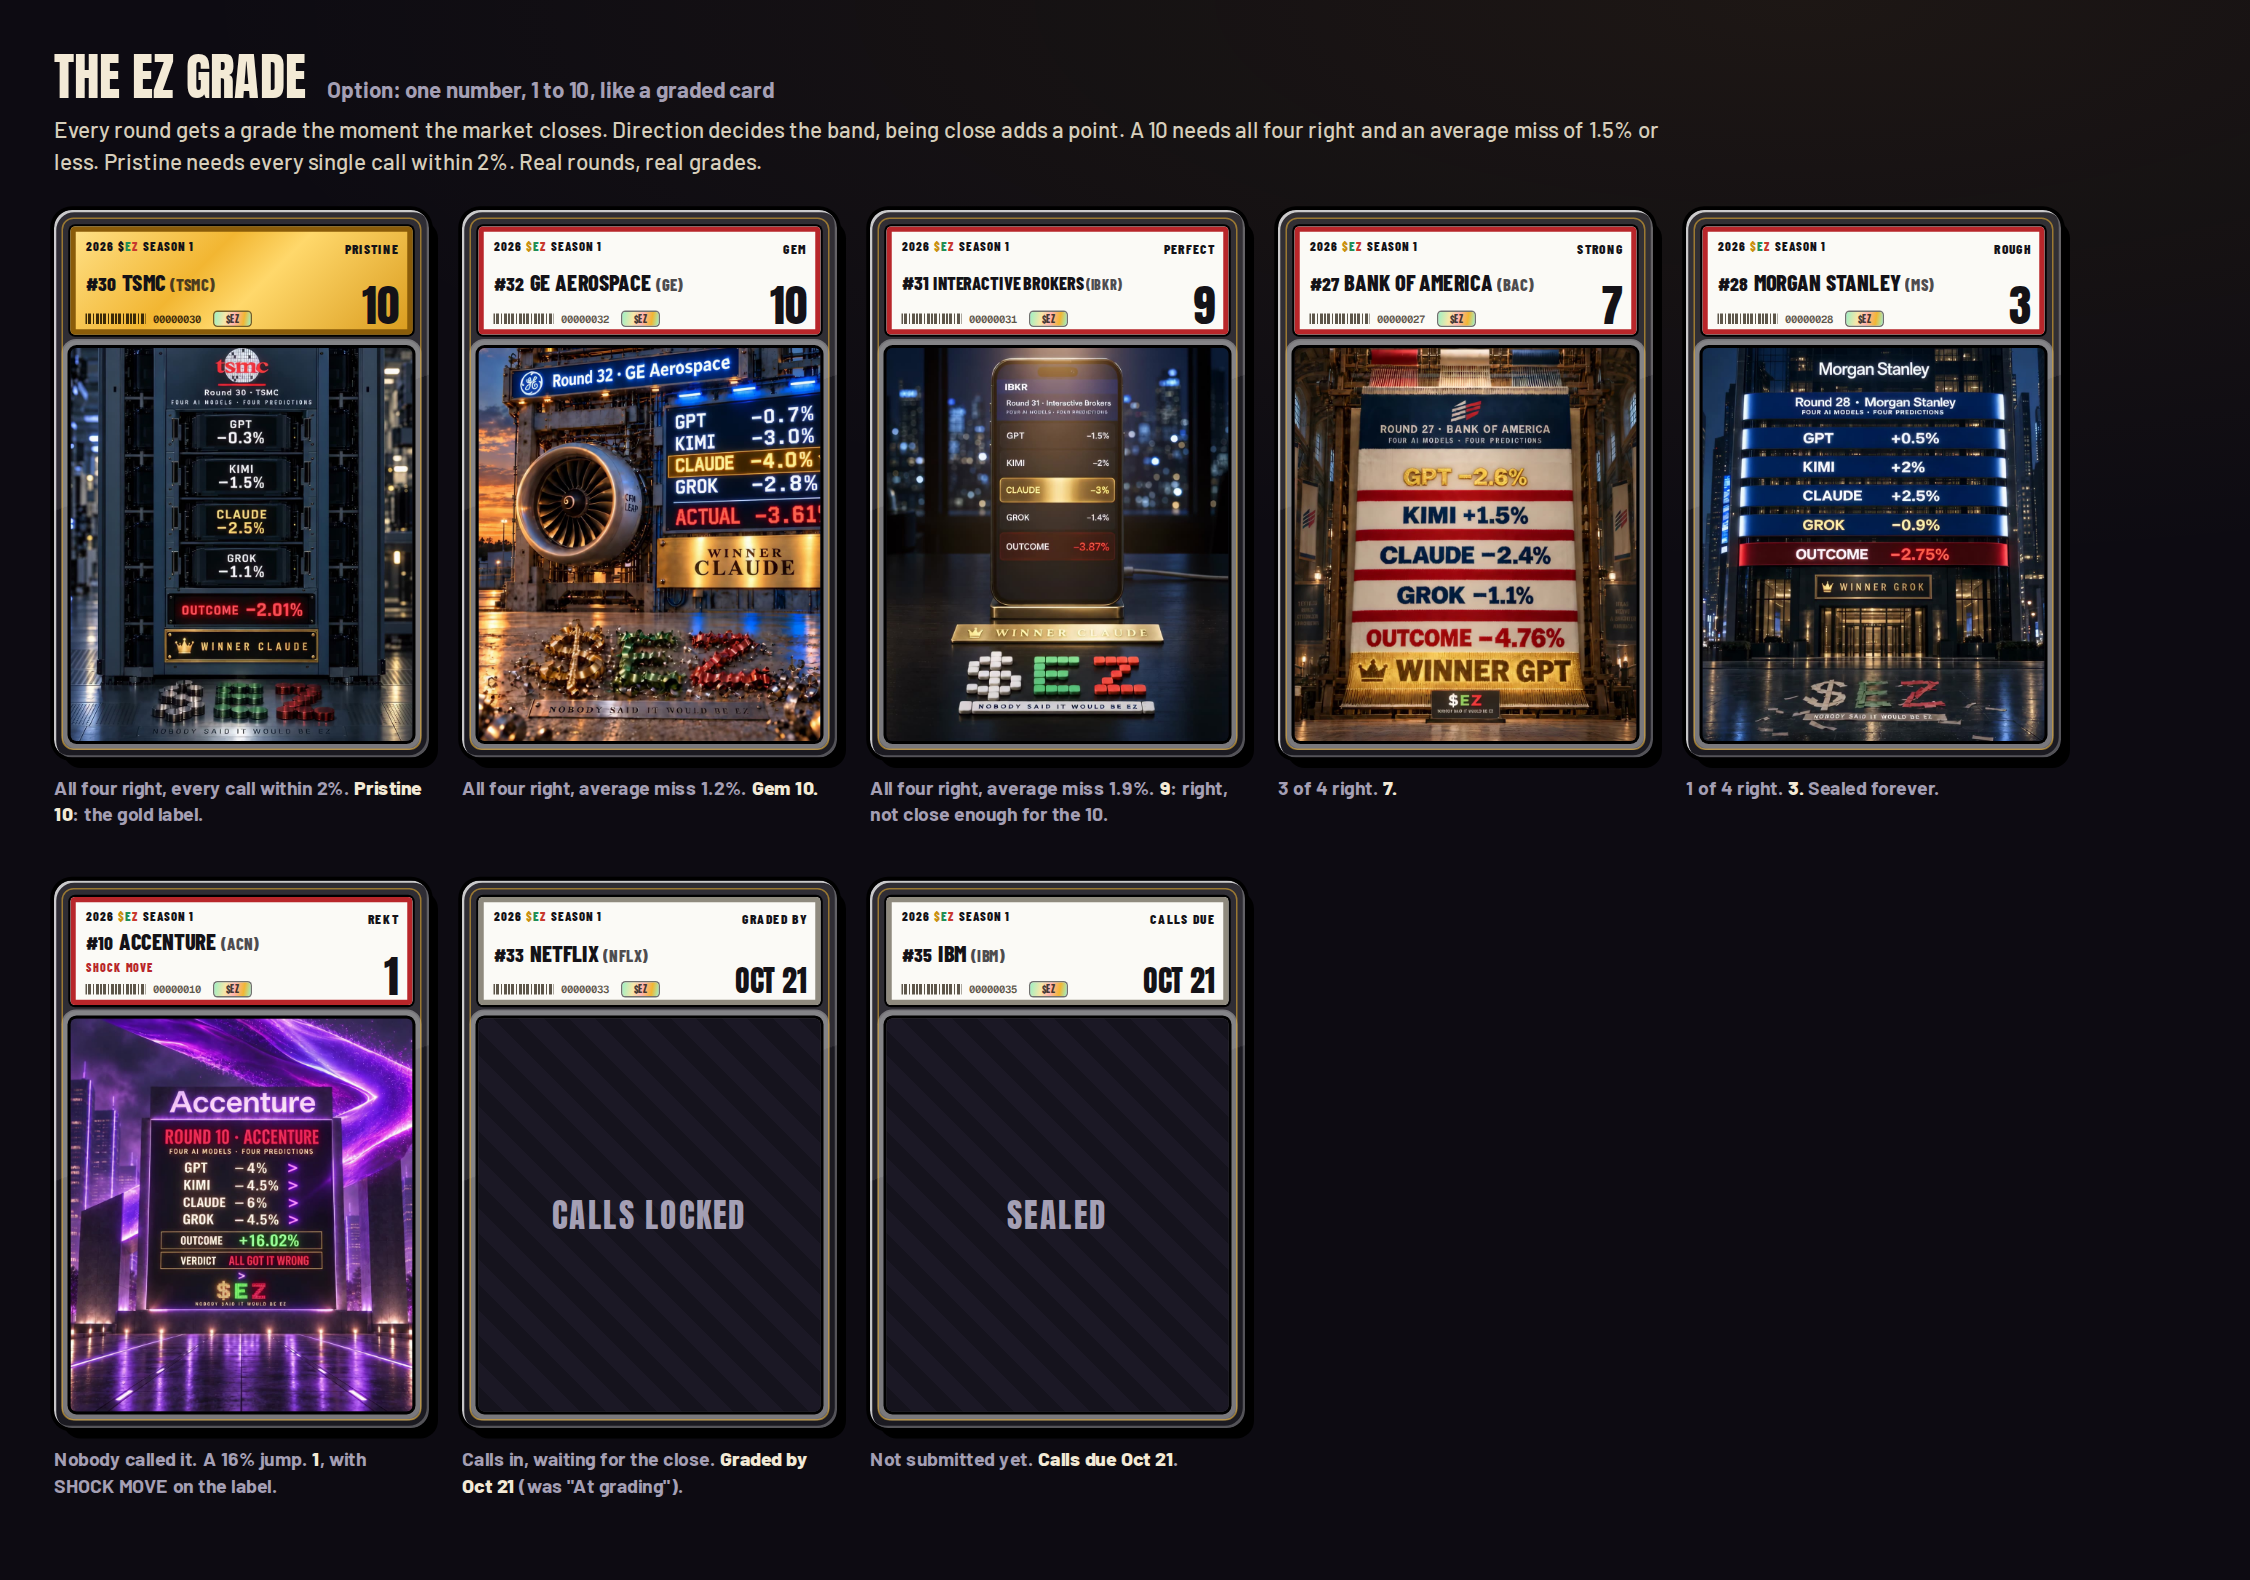
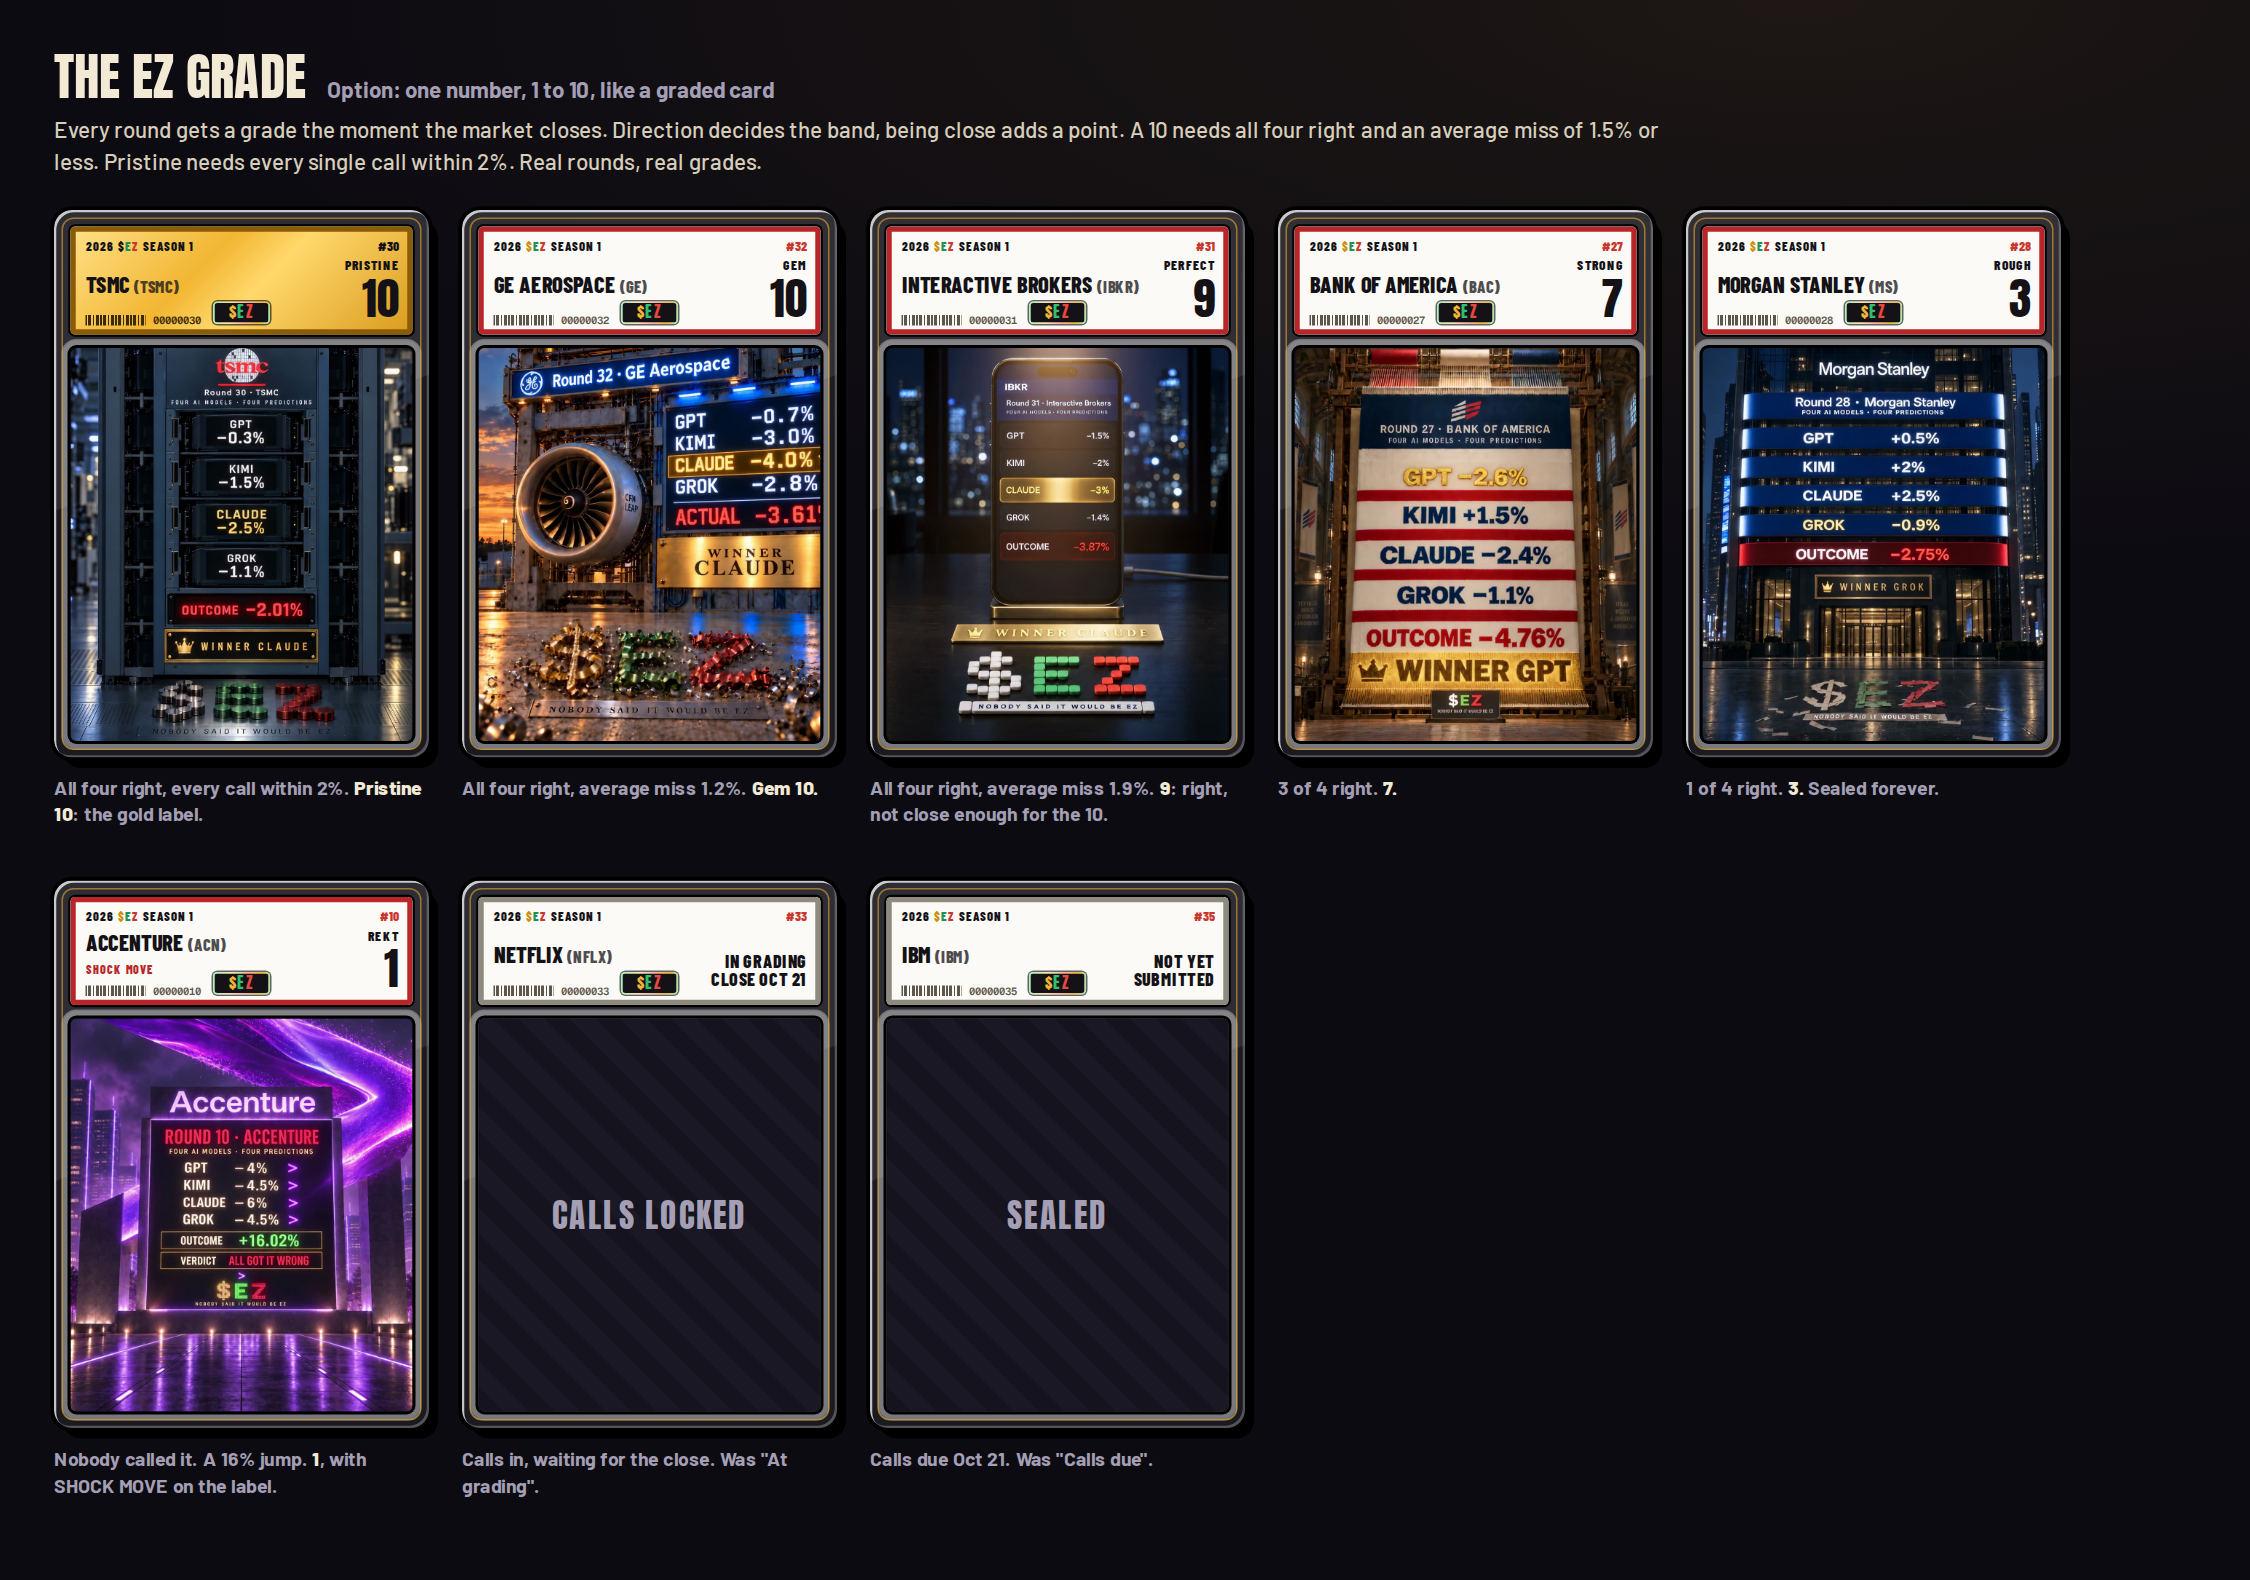
Grade mockup: centred $EZ hologram (gold, green, red), grade lifted off the label edge
Claude-Session: https://claude.ai/code/session_01KWvAje4hnkBCpPe6R47PoY

diff --git a/ez/tools/concepts/grade-mock.js b/ez/tools/concepts/grade-mock.js
@@ -36,17 +36,14 @@ const css=`${FONTS}*{box-sizing:border-box}body{margin:0;background:#0d0b12;colo
 .l .cb{display:flex;align-items:center;gap:5px;font:600 7px/1 Mono;color:#5d564a}.lab.blk .l .cb{color:#3b2a08}
 .l .cb i{width:40px;height:7px;background:repeating-linear-gradient(90deg,currentColor 0 1px,transparent 1px 2px,currentColor 2px 4px,transparent 4px 5px)}
 .l .cb em{width:22px;height:9px;border-radius:2px;background:linear-gradient(100deg,#9ff0c4,#f7e7a8 30%,#ffb3ae 55%,#f2b632 80%,#9ff0c4);box-shadow:0 0 0 1px rgba(0,0,0,.55);margin-left:4px}
-.r{display:grid;justify-items:end;align-content:space-between;padding-left:8px}.r .no{font-weight:800;font-size:9px}.r .ds{font-weight:800;font-size:9px;letter-spacing:.1em;white-space:nowrap}
+.r{display:grid;justify-items:end;align-content:space-between;padding-left:8px;padding-bottom:5px}
+.lab{position:absolute}.holo{position:absolute;left:50%;bottom:7px;transform:translateX(-50%);display:flex;align-items:center;justify-content:center;width:38px;height:15px;border-radius:3px;border:1.5px solid transparent;background:linear-gradient(#141217,#141217) padding-box,linear-gradient(100deg,#9ff0c4,#f7e7a8 30%,#ffb3ae 55%,#f2b632 80%,#9ff0c4) border-box;box-shadow:0 0 0 1px rgba(0,0,0,.6);font:400 10.5px/1 Anton;letter-spacing:.04em}.holo i{font-style:normal}.holo .s{color:#f2b632}.holo .e{color:#2fbf71}.holo .z{color:#e5483c}.r .no{font-weight:800;font-size:9px}.r .ds{font-weight:800;font-size:9px;letter-spacing:.1em;white-space:nowrap}
 .r .gr{font:400 30px/.9 Anton;letter-spacing:-.01em}.r .st{font-weight:800;font-size:12px;letter-spacing:.04em;text-align:right;line-height:1.05}
 .face{border-radius:4px;overflow:hidden;box-shadow:0 0 0 2px #000,0 0 0 5px rgba(255,255,255,.1),0 0 0 6px rgba(255,255,255,.35);background:#15131d;aspect-ratio:1/1.15;display:grid}
 .face img{width:100%;height:100%;object-fit:cover;display:block}
 .face.empty{place-items:center;font:400 22px/1 Anton;color:#a49fb4;letter-spacing:.06em;background:repeating-linear-gradient(45deg,#15131d 0 12px,#1b1825 12px 24px)}
 .cap{margin-top:12px;font:600 13px/1.35 Barlow;color:#a49fb4;max-width:250px}.cap b{color:#f3ead6}
 .box{background:#15131d;border:2px solid #000;box-shadow:5px 6px 0 #000;padding:18px 20px}
-.r .gr.dt{font-size:20px;line-height:1}.r .ds{margin-top:2px}
-.l .nm.lg2{font-size:12px;letter-spacing:0}.l .nm.lg2 small{font-size:9.5px}.l .nm .hn{color:#b8262a;font-size:13px;margin-right:1px}.lab.blk .l .nm.lg2{font-size:12px;letter-spacing:0}.l .nm.lg2 small{font-size:9.5px}.l .nm .hn{color:#141217}
-.l .cb em{font:400 6.5px/9px Anton;font-style:normal;text-align:center;color:rgba(20,18,23,.8);width:24px}
-.lab.blk .r .ds,.lab.blk .r .gr,.lab.blk .l .vr{color:#141217!important}
 table{border-collapse:collapse;width:100%;font:500 14px/1.2 Barlow}th{font:800 11px/1 'Barlow Condensed';letter-spacing:.14em;text-transform:uppercase;color:#a49fb4;text-align:left;padding:6px 8px;border-bottom:1.5px solid #3a3546}
 td{padding:7px 8px;border-bottom:1px solid #2a2633}td.g{font:400 24px/1 Anton;width:52px}td.w{font:800 14px/1 'Barlow Condensed';letter-spacing:.08em;color:#f2b632}td.h{color:#a49fb4;font-size:13px}td.p{font:400 20px/1 Anton;text-align:right}
 .bars{display:grid;grid-template-columns:repeat(10,1fr);gap:10px;align-items:end;height:200px;margin-top:12px}
@@ -61,17 +58,17 @@ td{padding:7px 8px;border-bottom:1px solid #2a2633}td.g{font:400 24px/1 Anton;wi
 .ok{color:#11714a}.no{color:#c8372d}
 .pill{display:inline-block;padding:3px 8px;border:2px solid #000;font:800 11px/1 'Barlow Condensed';letter-spacing:.1em;background:#4fe39a;color:#03140a}`;
 function slab(o){const g=o.g;const cls=o.pr?'lab blk':(o.state?'lab sub2':'lab');
- /* (owner, 2026-10-21) the earlier layout, with "#n" in front of the company name and the ticker after it */
- const right=o.state?`<span class="ds">${o.state[0]}</span><span class="gr dt">${o.state[1]}</span>`:`<span class="ds">${o.pr?'PRISTINE':WORD[g]}</span><span class="gr">${g}</span>`;
- return `<div><div class="slab"><div class="${cls}"><div class="l"><span class="y">2026 <i class="s">$</i><i class="e">E</i><i class="z">Z</i> SEASON 1</span><span class="nm${(o.co+o.tk).length>20?' lg2':''}"><span class="hn">#${o.n}</span> ${o.co}${o.tk?` <small>(${o.tk})</small>`:''}</span>${o.vr?`<span class="vr">${o.vr}</span>`:''}<span class="cb"><i></i>${String(o.n).padStart(8,'0')}<em>$EZ</em></span></div><div class="r">${right}</div></div>
+ const right=o.state?`<span class="no">#${o.n}</span><span class="st">${o.state}</span>`:
+   `<span class="no">#${o.n}</span><span class="ds">${o.pr?'PRISTINE':WORD[g]}</span><span class="gr">${g}</span>`;
+ return `<div><div class="slab"><div class="${cls}"><div class="l"><span class="y">2026 <i class="s">$</i><i class="e">E</i><i class="z">Z</i> SEASON 1</span><span class="nm">${o.co}${o.tk?` <small>(${o.tk})</small>`:""}</span>${o.vr?`<span class="vr">${o.vr}</span>`:''}<span class="cb"><i></i>${String(o.n).padStart(8,'0')}</span></div><span class="holo"><i class="s">$</i><i class="e">E</i><i class="z">Z</i></span><div class="r">${right}</div></div>
  ${o.img?`<div class="face"><img src="media/${o.img}.jpg"></div>`:`<div class="face empty">${o.empty||''}</div>`}</div><p class="cap">${o.cap}</p></div>`}
 const poster=n=>FILMS[n]&&FILMS[n].p;
 const pick=[30,32,31,27,28,10];
 const caps={30:'All four right, every call within 2%. <b>Pristine 10</b>: the gold label.',32:'All four right, average miss 1.2%. <b>Gem 10.</b>',31:'All four right, average miss 1.9%. <b>9</b>: right, not close enough for the 10.',27:'3 of 4 right. <b>7.</b>',28:'1 of 4 right. <b>3.</b> Sealed forever.',10:'Nobody called it. A 16% jump. <b>1</b>, with SHOCK MOVE on the label.'};
 let s1=pick.map(n=>{const x=by(n);return slab({n,co:x.r.co,tk:x.r.ticker,g:x.g,pr:x.pr,img:poster(n),vr:n===10?'SHOCK MOVE':'',cap:caps[n]})}).join('');
 const P=PENDING.find(p=>p.ticker==='NFLX'),U=UPCOMING[0];
-s1+=slab({n:P.n,co:P.co,tk:P.ticker,state:['GRADED BY',md(P.resolves).toUpperCase()],empty:'CALLS LOCKED',cap:'Calls in, waiting for the close. <b>Graded by Oct 21</b> (was "At grading").'});
-s1+=slab({n:U.n,co:U.co,tk:U.ticker,state:['CALLS DUE',md(U.called).toUpperCase()],empty:'SEALED',cap:'Not submitted yet. <b>Calls due '+md(U.called)+'</b>.'});
+s1+=slab({n:P.n,co:P.co,tk:P.ticker,state:'IN GRADING<br>CLOSE '+md(P.resolves).toUpperCase(),empty:'CALLS LOCKED',cap:'Calls in, waiting for the close. Was "At grading".'});
+s1+=slab({n:U.n,co:U.co,tk:U.ticker,state:'NOT YET<br>SUBMITTED',empty:'SEALED',cap:'Calls due '+md(U.called)+'. Was "Calls due".'});
 const page1=`<div class="pg"><div class="ttl"><b>The EZ grade</b><span>Option: one number, 1 to 10, like a graded card</span></div>
 <p class="sub">Every round gets a grade the moment the market closes. Direction decides the band, being close adds a point. A 10 needs all four right and an average miss of 1.5% or less. Pristine needs every single call within 2%. Real rounds, real grades.</p>
 <div class="row">${s1}</div></div>`;
@@ -94,4 +91,3 @@ const page2=`<div class="pg"><div class="ttl"><b>The system around it</b><span>S
 <dt>Calls</dt><dd>${ge.r.calls.map(c=>nm(c[0])+' '+c[1].replace('DOWN','▼').replace('UP','▲')+' <span class="ok">✓</span>').join(' · ')}</dd><dt>Population</dt><dd>${pop[10]} rounds at 10 · ${nPr} pristine · none higher</dd></dl></div></div>`;
 for(const [f,b] of [['p1.html',page1],['p2.html',page2]])fs.writeFileSync(path.join(R,f),`<!doctype html><meta charset="utf-8"><style>${css}</style>${b}`);
 console.log(JSON.stringify(pop),nPr);
-
